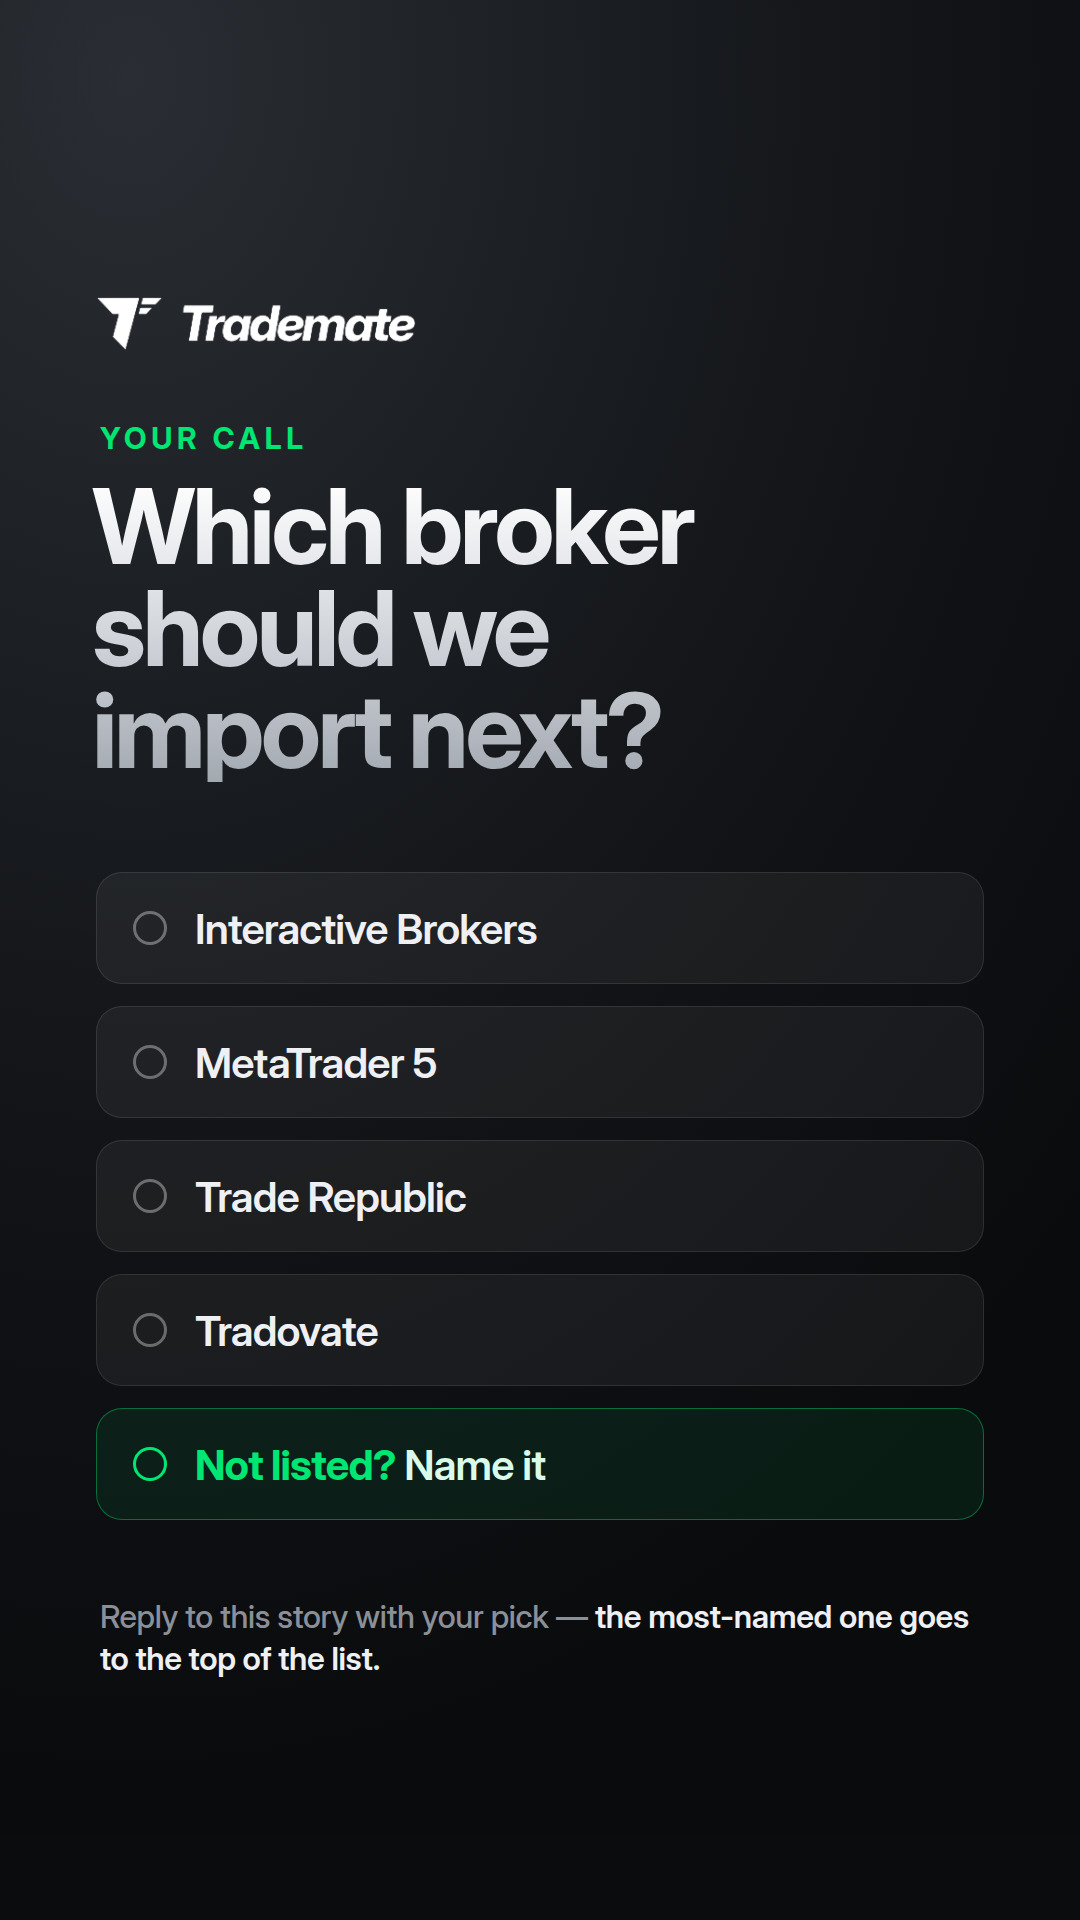
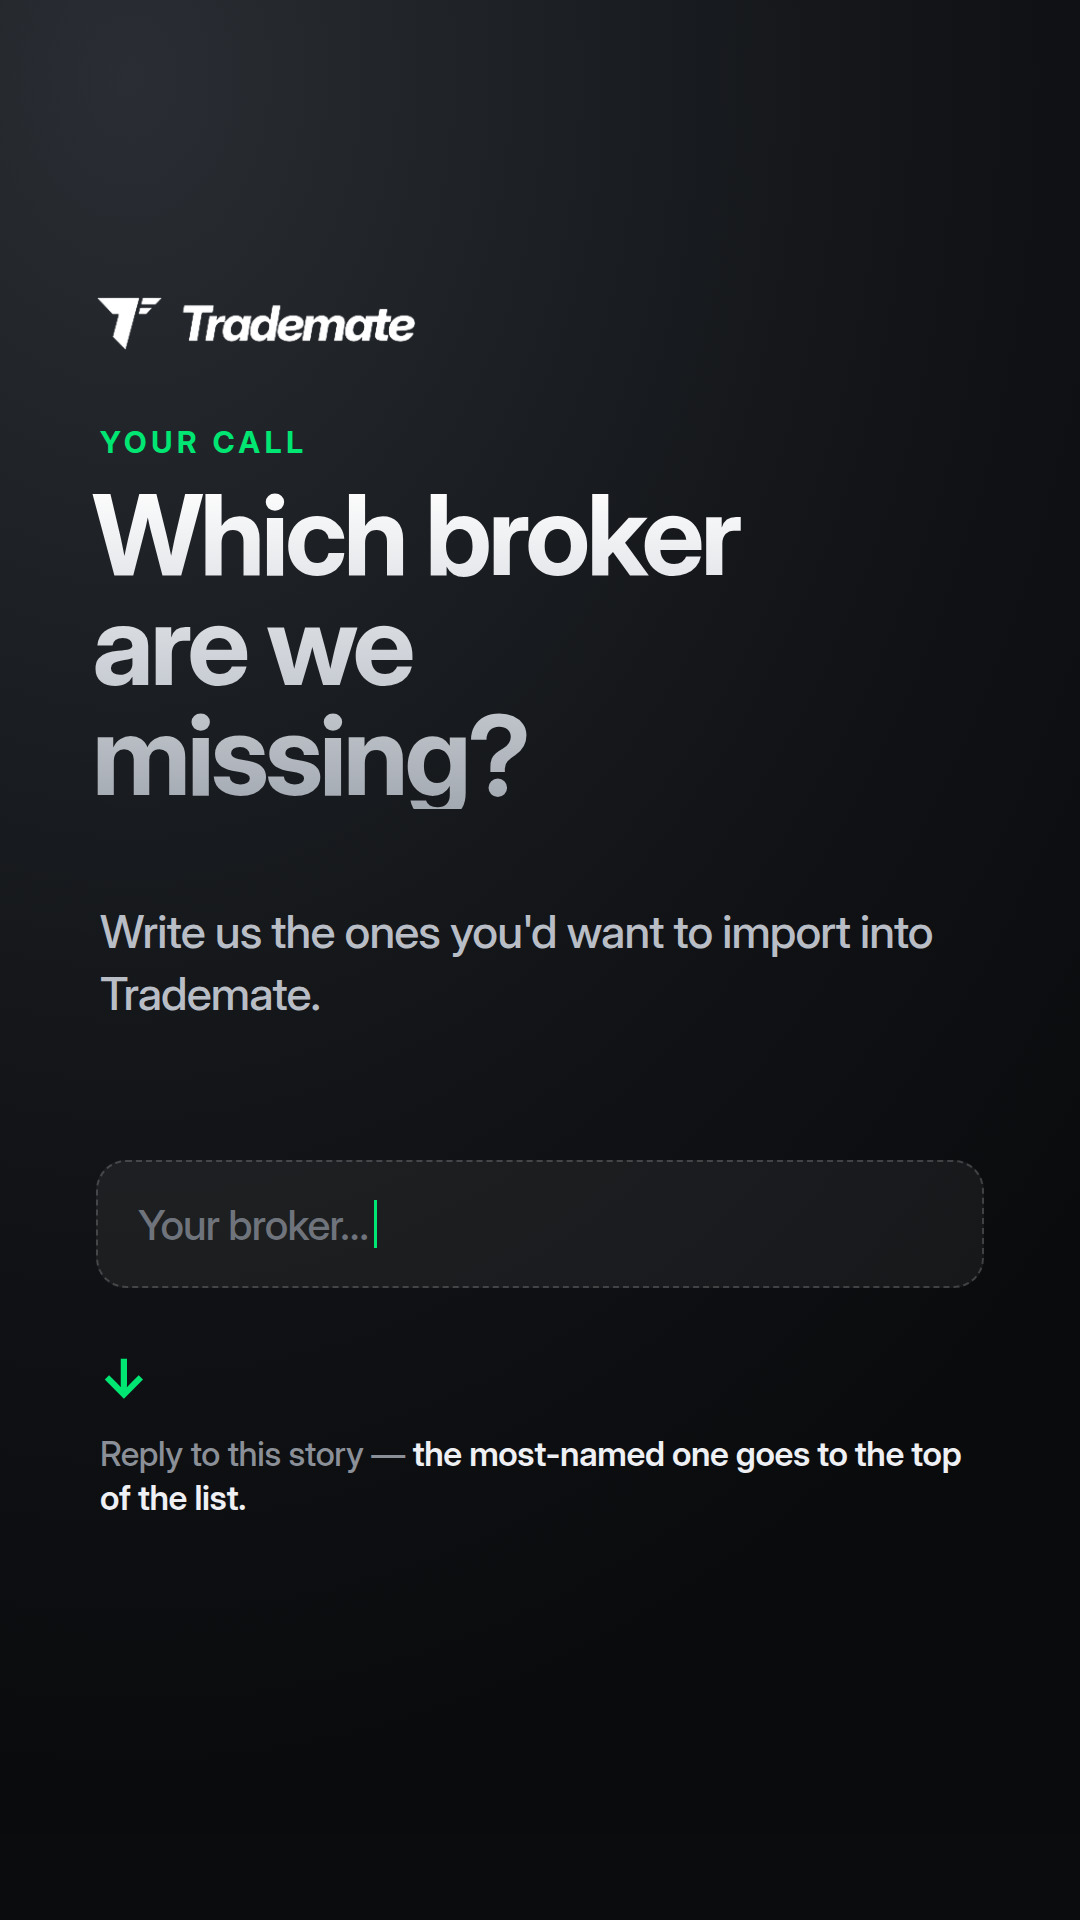
Broker-Story auf offene Frage umgestellt
Statt vier vorgegebener Broker jetzt nur noch die Frage plus ein
angedeutetes Eingabefeld, das auf die Antwortleiste zeigt. Wer antwortet,
nennt damit den Broker, den er wirklich handelt, statt aus einer Liste zu
waehlen, die seinen ohnehin nicht enthaelt.

Termin und Dateiname bleiben unveraendert.

Claude-Session: https://claude.ai/code/session_01K9x6HYPh1ZfoL8KBnVSMLu

diff --git a/templates/story-umfrage.html b/templates/story-umfrage.html
@@ -1,47 +1,50 @@
 <!doctype html>
 <meta charset="utf-8">
-<title>Trademate Story – Broker-Umfrage</title>
+<title>Trademate Story – Broker-Frage</title>
 <link rel="stylesheet" href="_base.css">
 <style>
   /* 1080x1920. Oben und unten bleiben rund 250 px frei, damit weder der
      Instagram-Header noch die Antwortleiste ueber den Inhalt laufen.
-     Die Antwortleiste sitzt ganz unten - der Hinweis darueber zeigt darauf. */
+     Das Eingabefeld unten zeigt bewusst auf die echte Antwortleiste. */
   .buehne { width: 1080px; height: 1920px; }
   .logo { position: absolute; left: 96px; top: 296px; width: 320px; }
 
   .augenbraue {
-    position: absolute; left: 100px; top: 420px;
+    position: absolute; left: 100px; top: 424px;
     color: var(--gruen); font-size: 30px; font-weight: 700;
     letter-spacing: 0.16em; text-transform: uppercase;
   }
-  .headline { position: absolute; left: 92px; top: 476px; width: 900px; font-size: 104px; }
+  .headline { position: absolute; left: 92px; top: 480px; width: 900px; font-size: 112px; }
 
-  .liste { position: absolute; left: 96px; top: 872px; width: 888px; }
-  .zeile {
-    display: flex; align-items: center; gap: 28px;
-    height: 112px; padding: 0 36px; margin-bottom: 22px;
-    border-radius: 26px;
+  .unterzeile {
+    position: absolute; left: 100px; top: 900px; width: 840px;
+    color: var(--grau-hell); font-size: 46px; font-weight: 500;
+    letter-spacing: -0.02em; line-height: 1.35;
+  }
+
+  /* Angedeutetes Eingabefeld: macht ohne Poll-Sticker klar, dass geantwortet
+     werden soll. Der Strich darunter wirkt wie eine blinkende Schreibmarke. */
+  .feld {
+    position: absolute; left: 96px; top: 1160px; width: 888px;
+    display: flex; align-items: center;
+    height: 128px; padding: 0 40px;
+    border-radius: 30px;
     background: rgba(255, 255, 255, 0.05);
-    border: 1px solid rgba(255, 255, 255, 0.1);
-    font-size: 42px; font-weight: 600; letter-spacing: -0.02em; color: #eef0f3;
+    border: 2px dashed rgba(255, 255, 255, 0.18);
+    color: #6f747c; font-size: 42px; font-weight: 500; letter-spacing: -0.02em;
   }
-  /* Der leere Kreis liest sich wie ein Auswahlfeld - ohne einen echten
-     Poll-Sticker vorzutaeuschen, den die API nicht setzen kann. */
-  .kreis {
-    width: 34px; height: 34px; flex: none;
-    border-radius: 50%; border: 3px solid rgba(255, 255, 255, 0.35);
+  .marke {
+    width: 3px; height: 48px; margin-left: 6px;
+    background: var(--gruen);
   }
-  .zeile.offen {
-    background: rgba(0, 230, 115, 0.08);
-    border-color: rgba(0, 230, 115, 0.4);
-    color: #d9fbe9;
-  }
-  .zeile.offen .kreis { border-color: var(--gruen); }
-  .zeile.offen b { color: var(--gruen); font-weight: 700; }
 
+  .pfeil {
+    position: absolute; left: 100px; top: 1352px;
+    color: var(--gruen); font-size: 54px; font-weight: 700; line-height: 1;
+  }
   .hinweis {
-    position: absolute; left: 100px; top: 1596px; width: 880px;
-    color: #8b9098; font-size: 32px; font-weight: 500; letter-spacing: -0.01em;
+    position: absolute; left: 100px; top: 1432px; width: 880px;
+    color: #8b9098; font-size: 34px; font-weight: 500; letter-spacing: -0.01em;
     line-height: 1.3;
   }
   .hinweis b { color: #eef0f3; font-weight: 600; }
@@ -50,17 +53,14 @@
   <img class="logo" src="../images/brand/logo.png" alt="Trademate">
 
   <div class="augenbraue">Your call</div>
-  <div class="headline">Which broker<br>should we<br>import next?</div>
+  <div class="headline">Which broker<br>are we<br>missing?</div>
 
-  <div class="liste">
-    <div class="zeile"><span class="kreis"></span>Interactive Brokers</div>
-    <div class="zeile"><span class="kreis"></span>MetaTrader 5</div>
-    <div class="zeile"><span class="kreis"></span>Trade Republic</div>
-    <div class="zeile"><span class="kreis"></span>Tradovate</div>
-    <div class="zeile offen"><span class="kreis"></span><span><b>Not listed?</b> Name it</span></div>
-  </div>
+  <div class="unterzeile">Write us the ones you'd want to import into Trademate.</div>
 
+  <div class="feld">Your broker&hellip;<span class="marke"></span></div>
+
+  <div class="pfeil">&darr;</div>
   <div class="hinweis">
-    Reply to this story with your pick &mdash; <b>the most-named one goes to the top of the list.</b>
+    Reply to this story &mdash; <b>the most-named one goes to the top of the list.</b>
   </div>
 </div>
